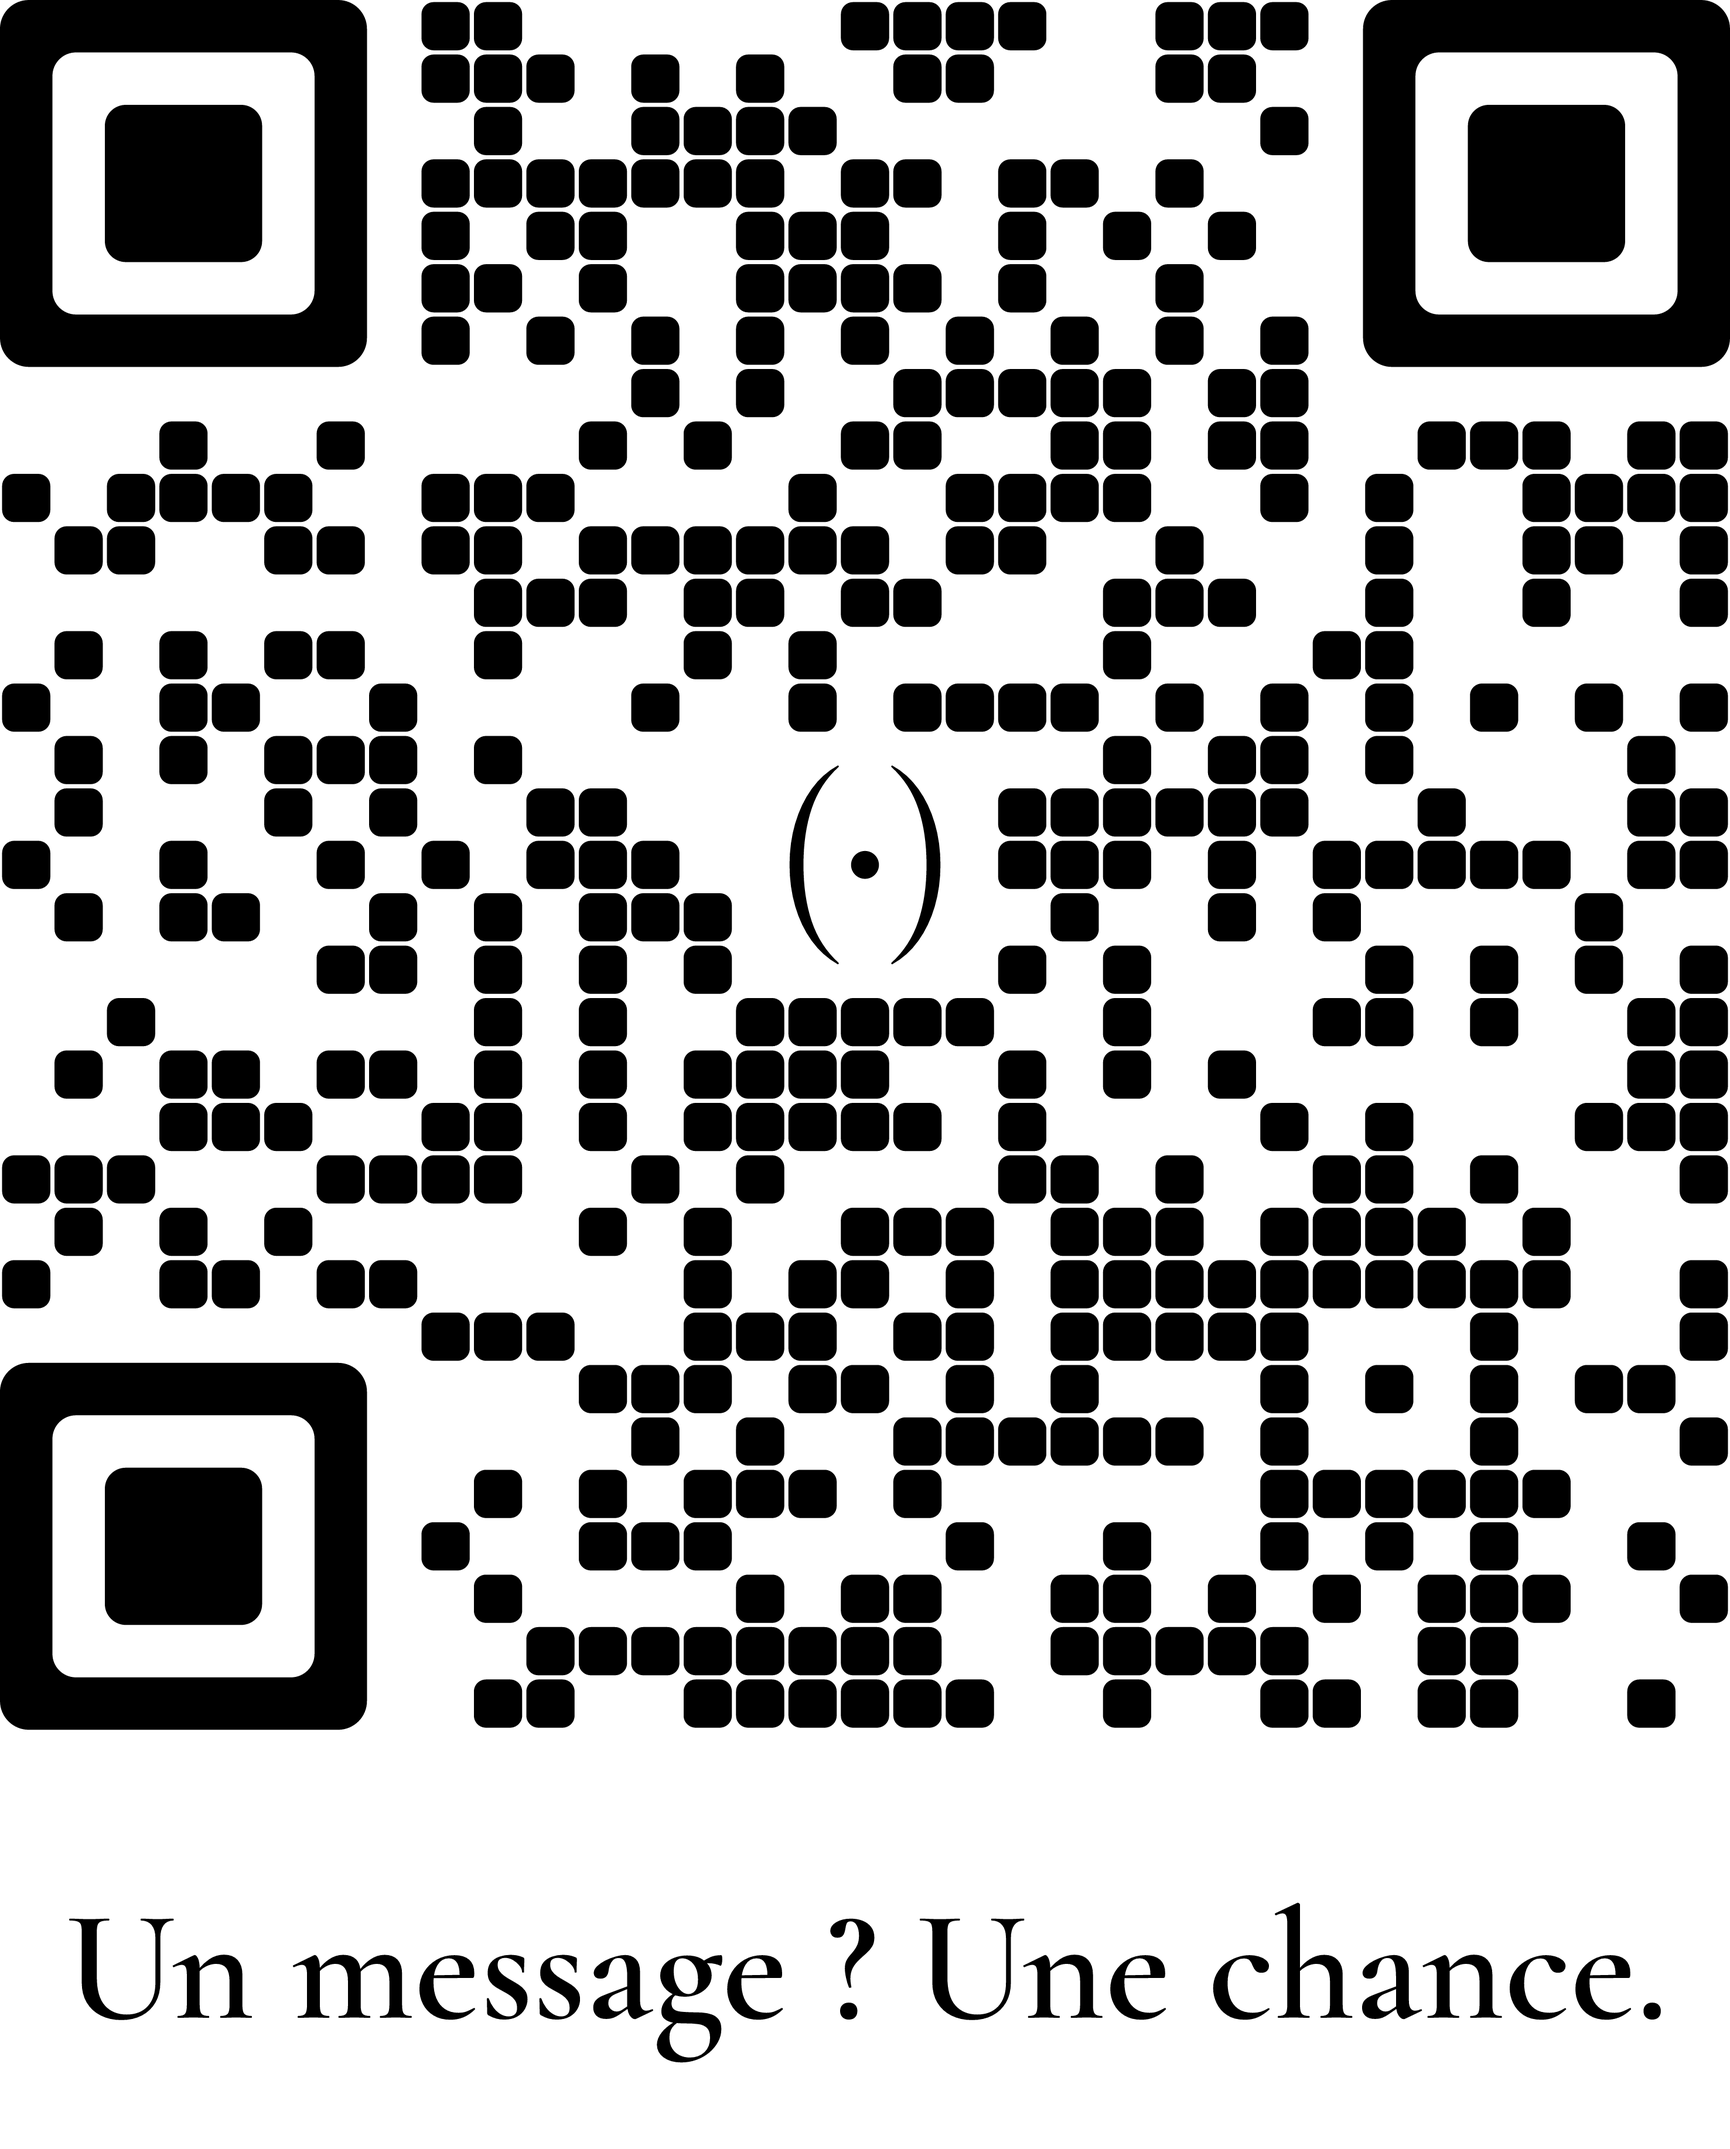
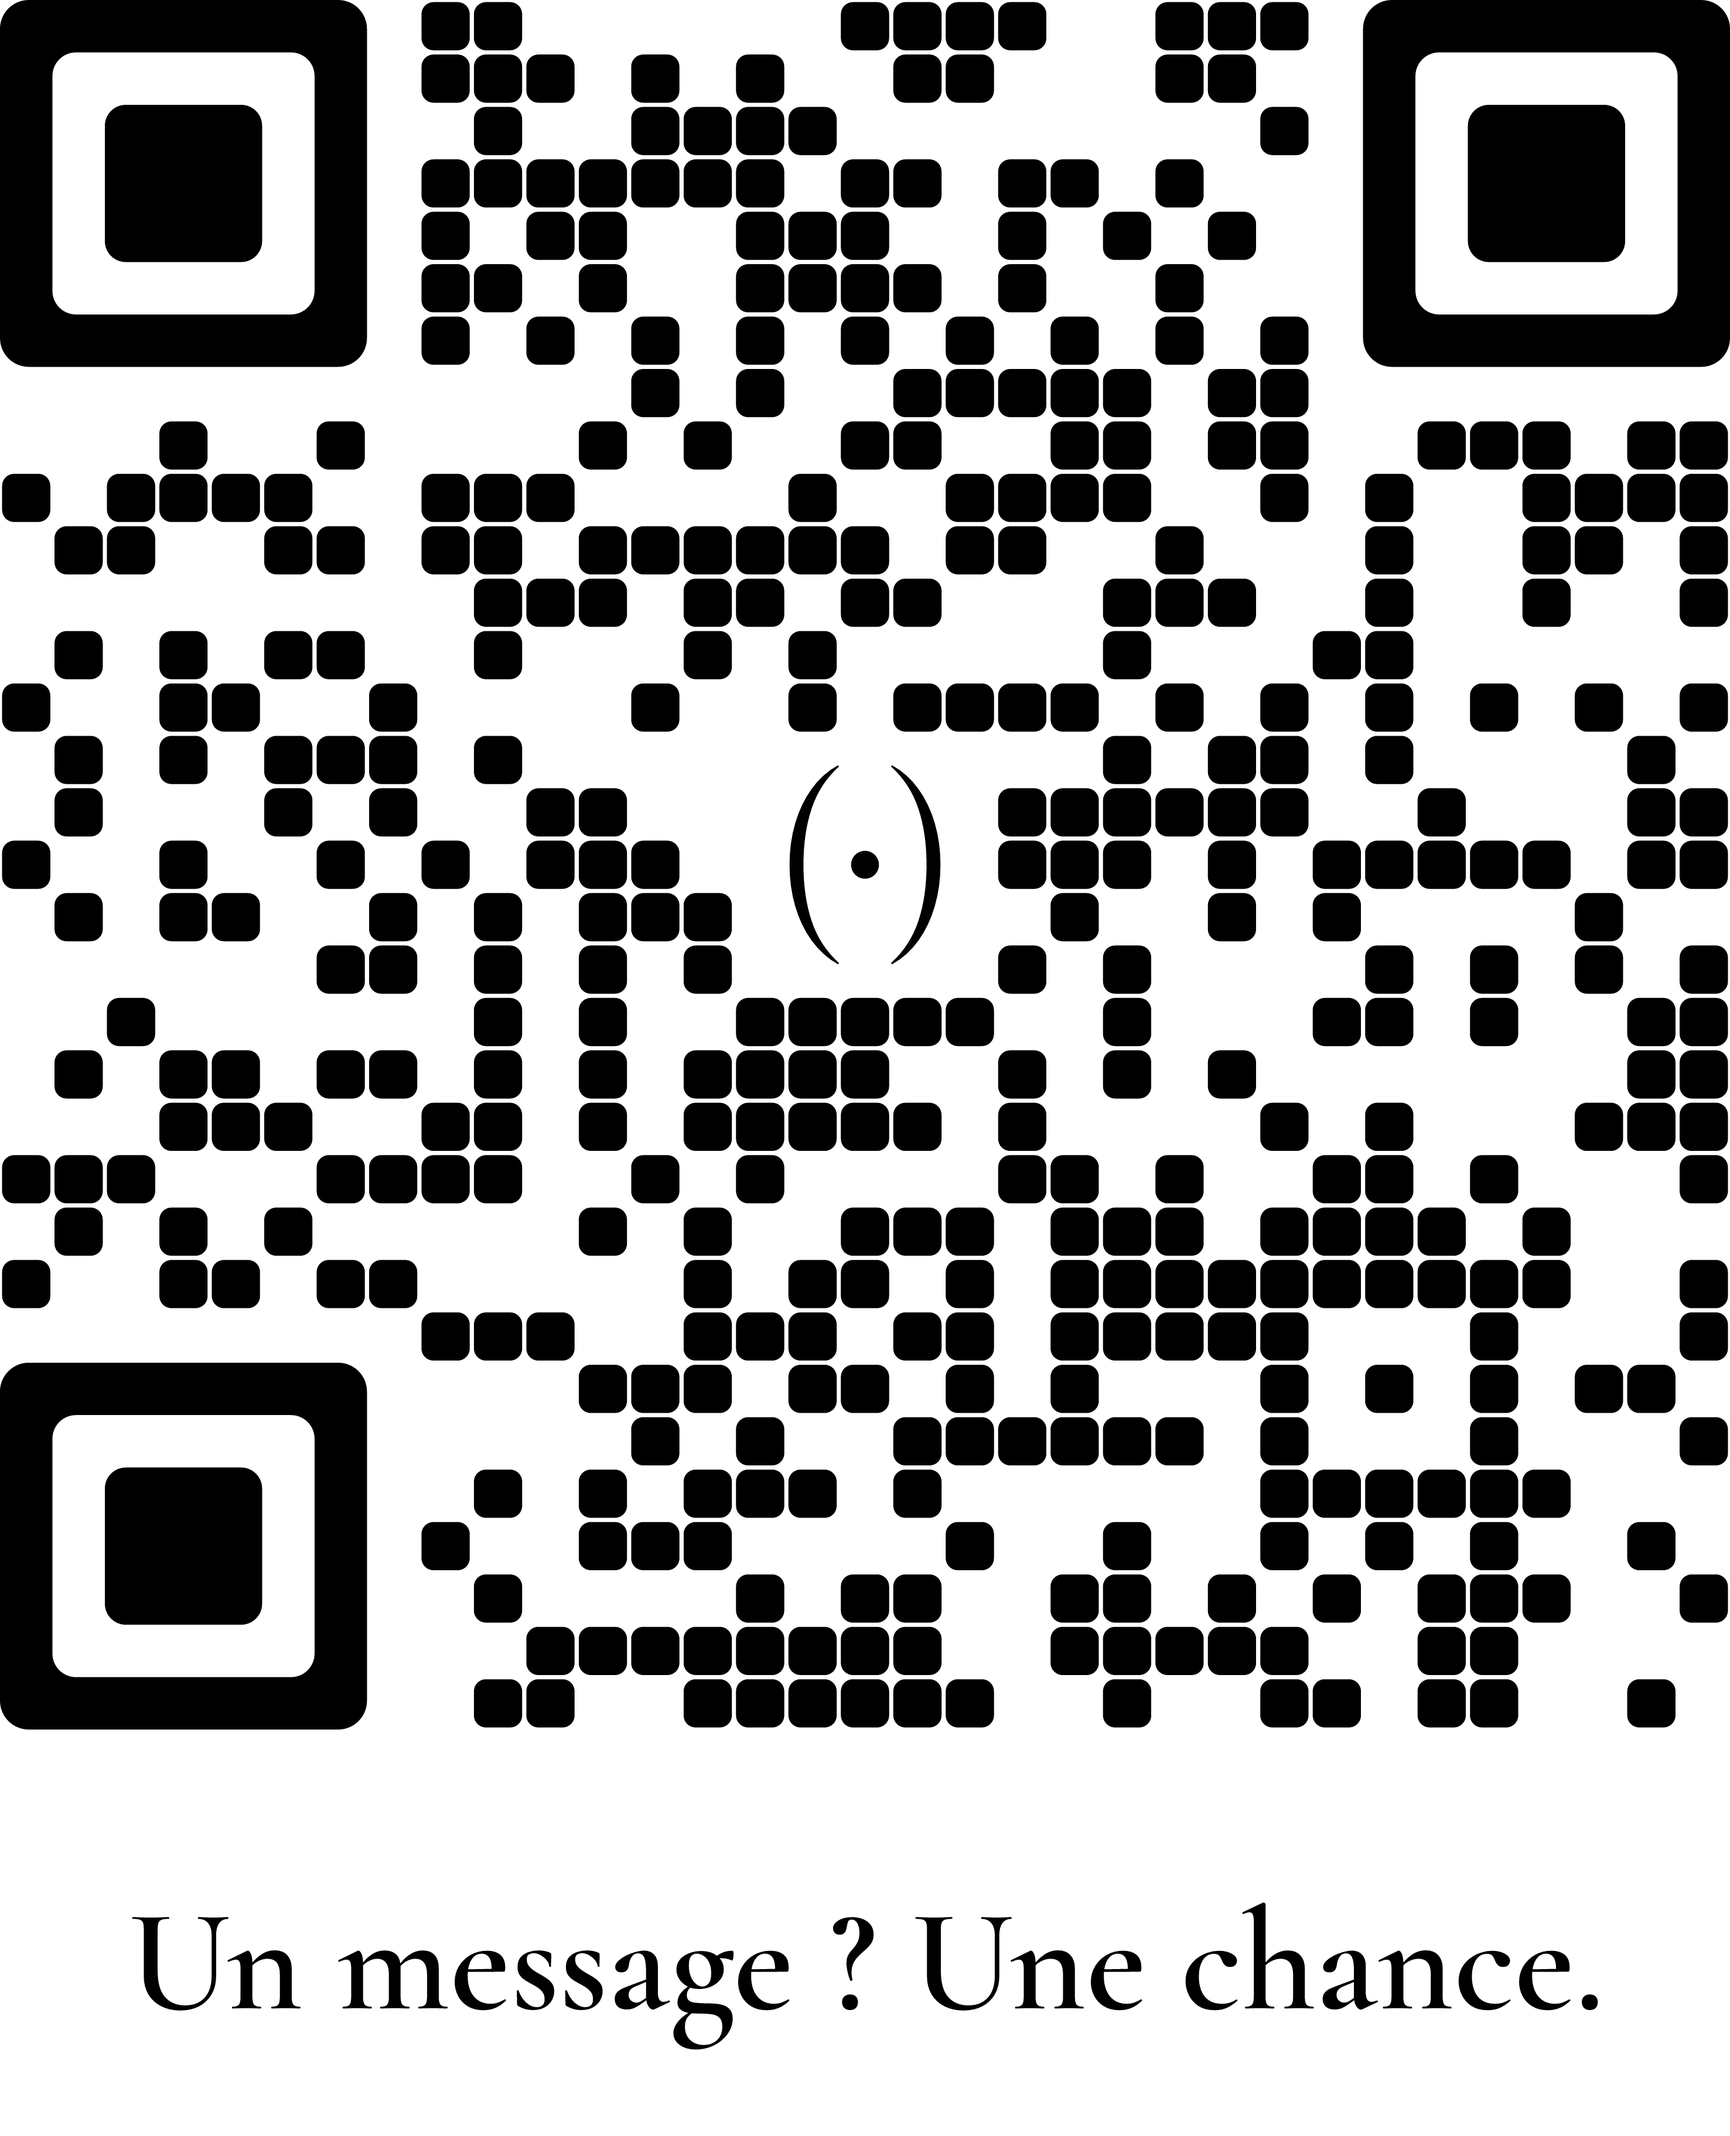
fix(print): accroches à taille de lettres CONSTANTE (hauteur de capitale fixe)
Avant : scale « fit-to-width » → les phrases longues sortaient en petites lettres, les
courtes en grosses (tailles incohérentes selon l'accroche). Désormais hauteur de capitale
fixe (0.085·W) pour toutes, bornée en largeur (1.0·W) pour que les 2-3 plus longues ne
débordent pas du QR (elles rétrécissent alors un peu). S'applique au print ET à l'aperçu
boutique. Assets régénérés (qr-accueil, scan-test, illustration). Décodage OK.

diff --git a/src/app/shop/ShopClient.tsx b/src/app/shop/ShopClient.tsx
@@ -57,6 +57,14 @@ function ProductGallery({ color, taglineId }: { color: TshirtColor; taglineId: s
   // → l'accroche se pose pile sous le QR, quelle que soit la couleur.
   const tagPos = isDark ? { top: '49.5%', left: '51%' } : { top: '50.5%', left: '50%' };
 
+  // Échelle de l'accroche = EXACTEMENT celle du print (composeBackPrintSVG) : bornée par la
+  // hauteur de capitale (0.14·W) puis par la largeur (0.92·W), W = largeur du QR (~31 % de la
+  // photo). Résultat : toutes les accroches ont la MÊME taille de lettres (pas étirées à une
+  // largeur fixe). Sinon une phrase courte sortait en grosses lettres, une longue en petites.
+  const QR_W = 0.309;                                  // largeur QR / largeur photo (relevé)
+  const tagAspect = baked ? (baked.bbox.x2 - baked.bbox.x1) / (baked.bbox.y2 - baked.bbox.y1) : 1;
+  const tagWidthPct = QR_W * Math.min(1.0, 0.085 * tagAspect) * 100;   // cap-height constante
+
   return (
     <div className="flex flex-col gap-3">
       <div className={`relative w-full aspect-square border rounded-[2px] overflow-hidden ${isDark ? 'bg-[#0a0a0a] border-brand-gray/10' : 'bg-[#f0ede8] border-brand-gray/20'}`}>
@@ -73,7 +81,7 @@ function ProductGallery({ color, taglineId }: { color: TshirtColor; taglineId: s
               <div
                 key={`${colorKey}-${taglineId}`}
                 className="absolute animate-fade-in [&_svg]:block [&_svg]:w-full [&_svg]:h-auto"
-                style={{ top: tagPos.top, left: tagPos.left, transform: 'translateX(-50%)', width: '27%' }}
+                style={{ top: tagPos.top, left: tagPos.left, transform: 'translateX(-50%)', width: `${tagWidthPct.toFixed(1)}%` }}
               >
                 <svg viewBox={`${baked.bbox.x1} ${baked.bbox.y1} ${(baked.bbox.x2 - baked.bbox.x1).toFixed(2)} ${(baked.bbox.y2 - baked.bbox.y1).toFixed(2)}`}>
                   <path d={baked.path} fill={isDark ? '#f2f2f2' : '#1a1a1a'} />

diff --git a/src/lib/generate-qr-svg.ts b/src/lib/generate-qr-svg.ts
@@ -308,9 +308,13 @@ export function composeBackPrintSVG(
   // hauteur de capitale raisonnable (sinon les accroches très courtes deviennent énormes).
   const tagW = baked.bbox.x2 - baked.bbox.x1;
   const tagH = baked.bbox.y2 - baked.bbox.y1;
-  const targetW = 0.92 * W;
-  const maxCapH = 0.14 * W;
-  const scale = Math.min(targetW / tagW, maxCapH / tagH);
+  // Hauteur de capitale CONSTANTE (0.085·W) → toutes les accroches ont la MÊME taille de
+  // lettres, quelle que soit leur longueur. Bornée par la largeur (1.0·W) pour que les
+  // phrases très longues ne débordent pas du QR (elles rétrécissent alors un peu — inévitable
+  // sans passer sur 2 lignes). Avant : fit-to-width → lettres plus petites pour les longues.
+  const TAG_CAP_H = 0.085 * W;
+  const TAG_MAX_W = 1.0 * W;
+  const scale = Math.min(TAG_CAP_H / tagH, TAG_MAX_W / tagW);
 
   const drawnW = tagW * scale;
   const drawnH = tagH * scale;
